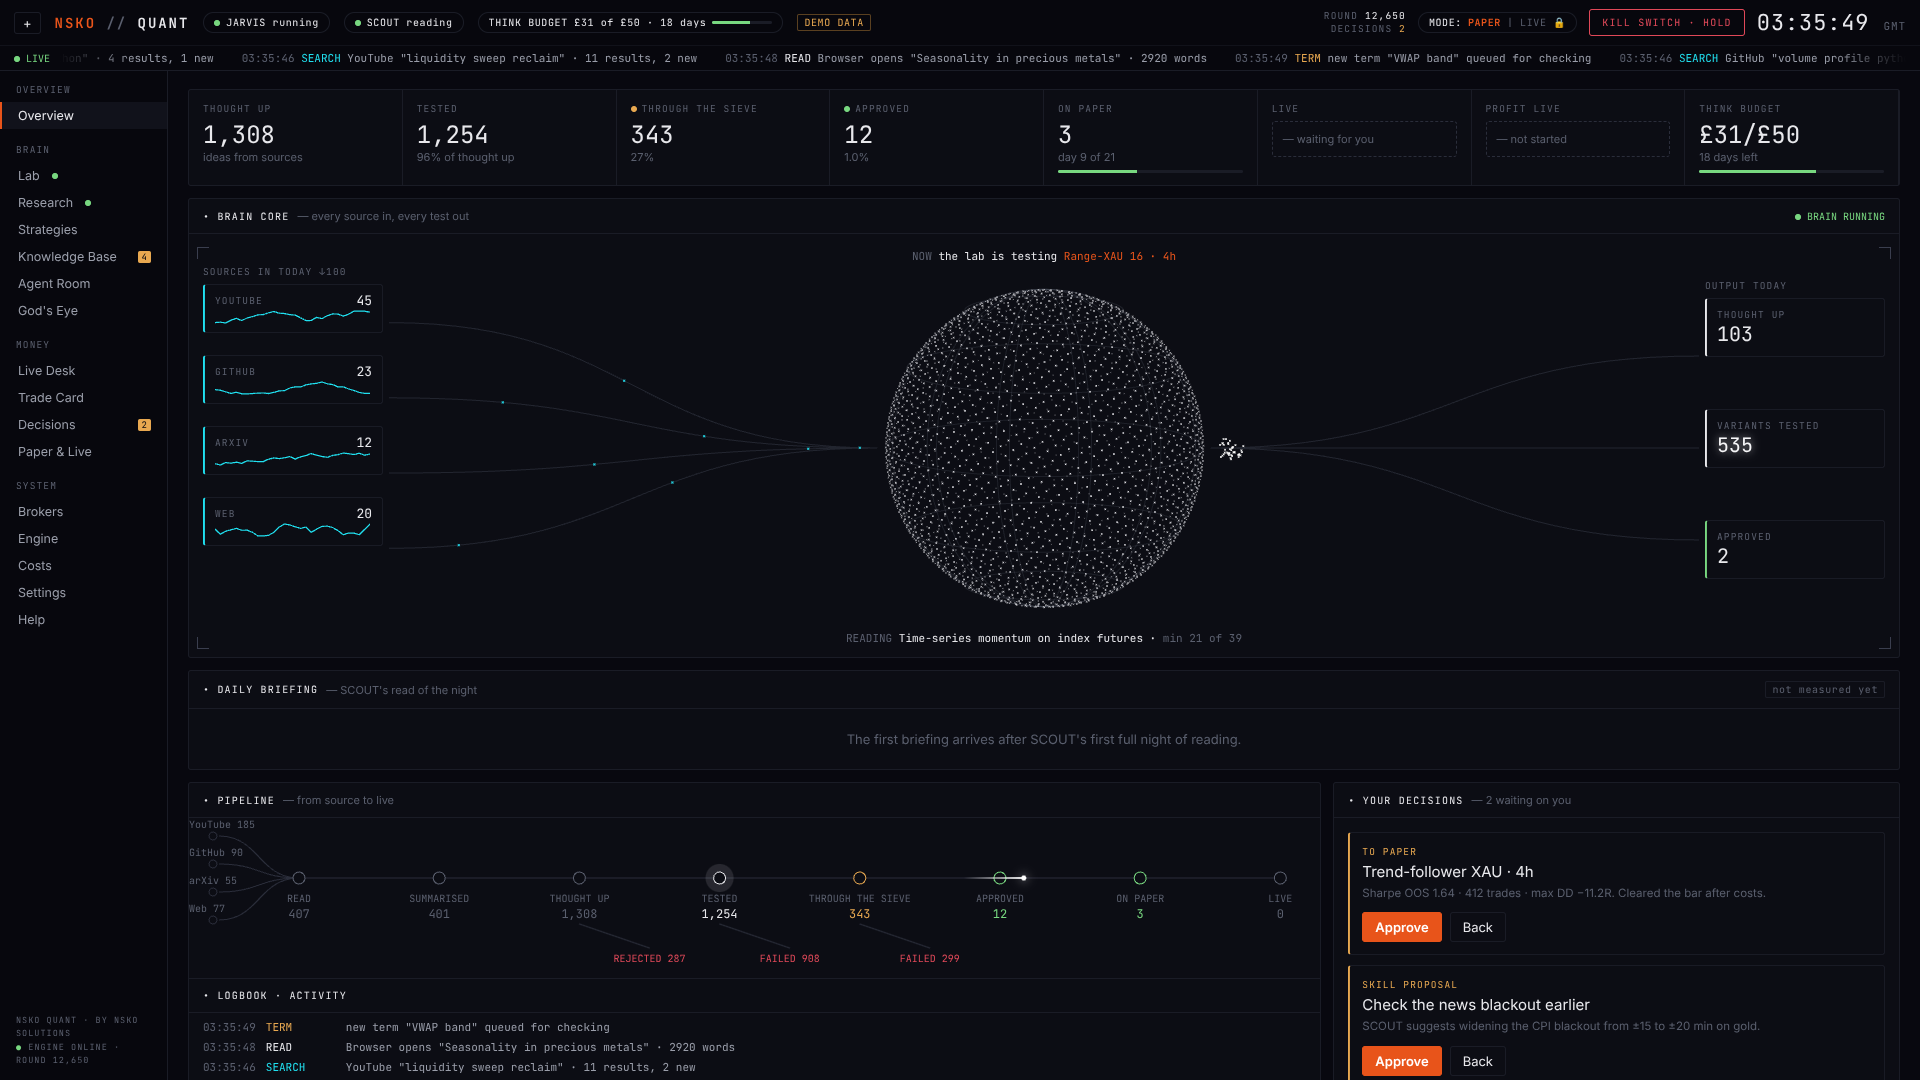
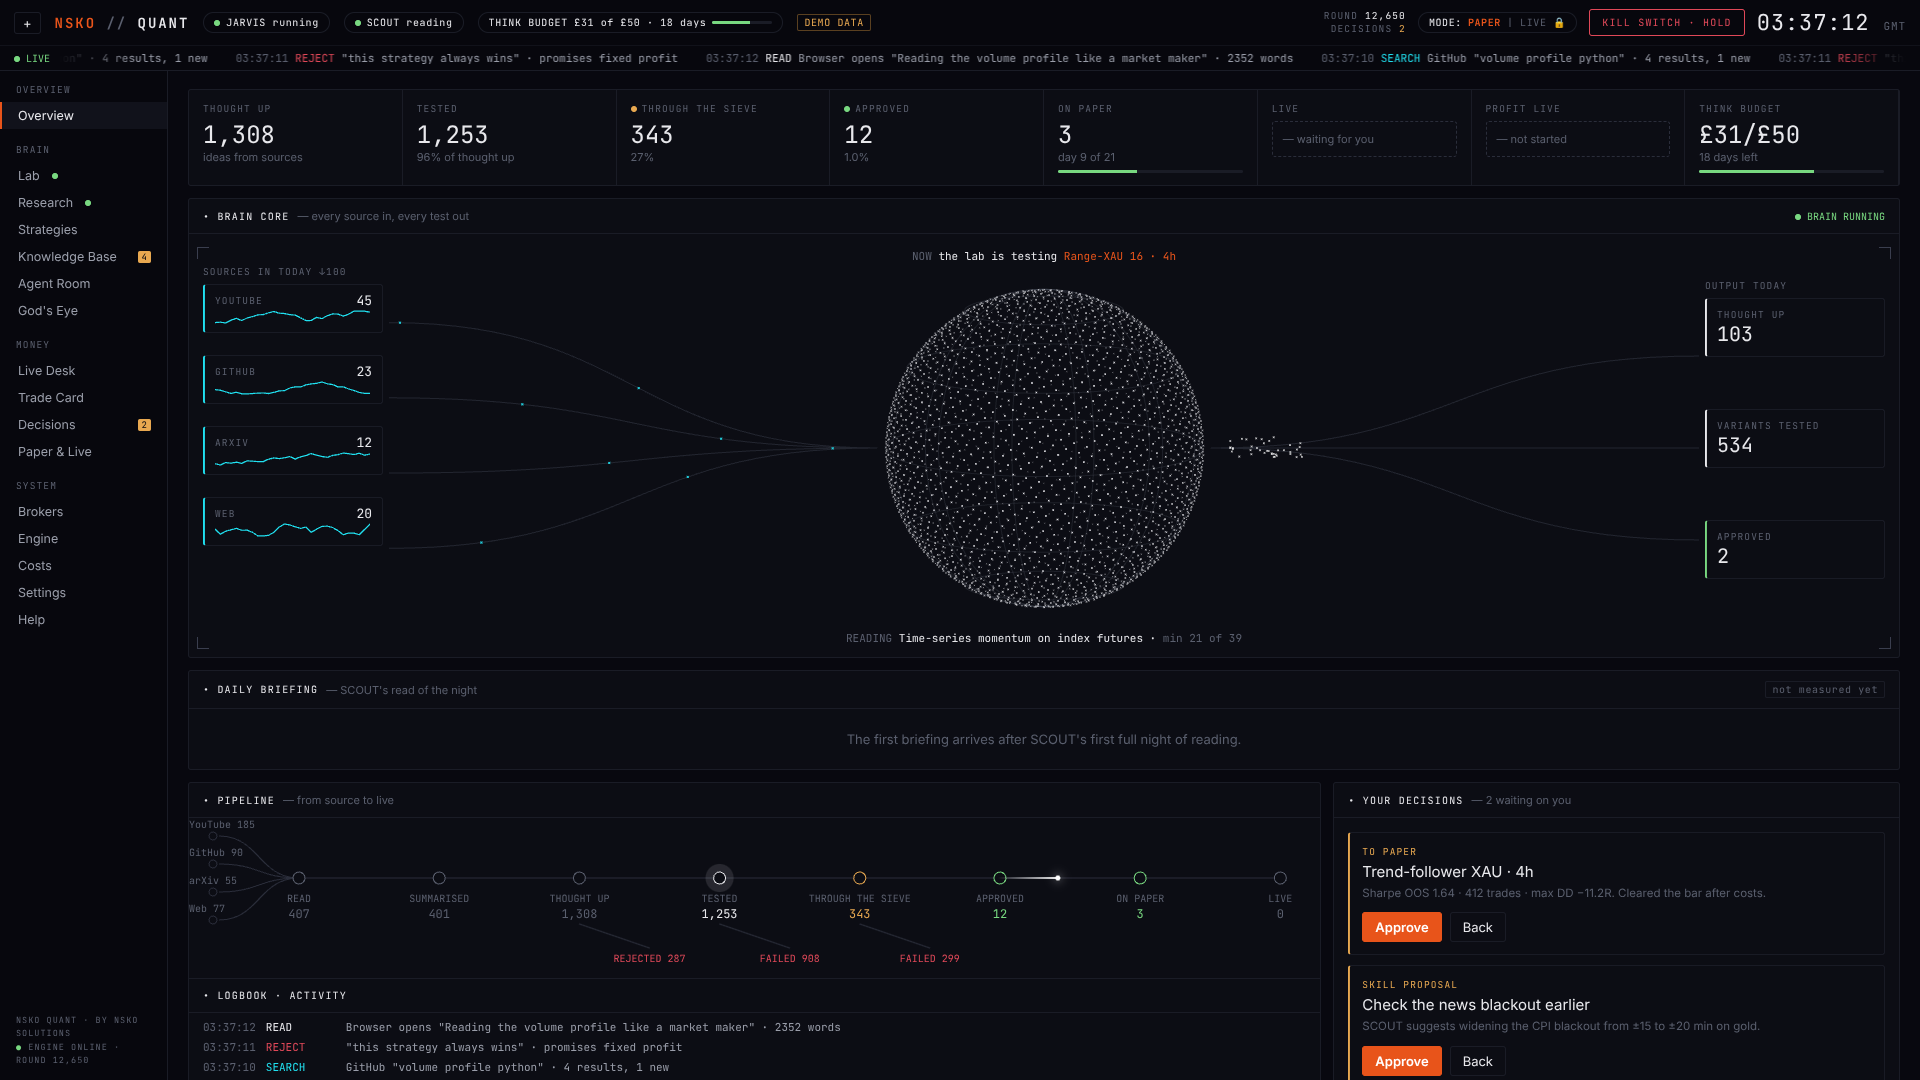
NSKO QUANT Stage 1: screenshots, report, Lab fan scale, Live Desk overlay fixes
Claude-Session: https://claude.ai/code/session_01FvjuHZAX8xSNXsKPrf7HEC

diff --git a/nsko-quant/app/src/pages/LabResearch.tsx b/nsko-quant/app/src/pages/LabResearch.tsx
@@ -14,30 +14,36 @@ export function EquityFan() {
   const variants = useS(s => s.variants); const [mode, setMode] = useState<'outcome' | 'idea' | 'nocost'>('outcome'); const [hov, setHov] = useState<Variant | null>(null)
   const mouse = useRef<[number, number] | null>(null)
   const bank = useMemo(() => { const v: Variant[] = []; for (let i = 0; i < 520; i++) { const s = (i * 7919) % 99991; const is = .3 + ((s % 100) / 100) * 1.4; const oos = is - ((s % 37) / 37) * 1.6 + ((s % 11) - 5) / 20; v.push({ id: -i, recipe: `${['Range', 'Trend', 'Sweep', 'Spread', 'ORB'][i % 5]}-XAU ${i % 20 + 1}`, market: 'XAU', tf: '4h', sharpeIS: +is.toFixed(2), sharpeOOS: +oos.toFixed(2), trades: 200, win: 50, rr: 1.4, dd: -12, outcome: oos >= 1.4 ? 'clear' : oos > .7 && i % 2 ? 'sieve' : 'failed', why: oos < 1.4 ? 'Max drawdown too deep' : null, seed: s + 1 }) } return v }, [])
-  const all = [...bank, ...variants]; const paths = useRef(new Map<number, number[]>())
+  const all = [...bank, ...variants]; const paths = useRef(new Map<number, number[]>()); const cache = useRef<{ key: string; img: HTMLCanvasElement | null }>({ key: '', img: null })
   const draw = (c: CanvasRenderingContext2D, w: number, h: number, t: number) => {
-    c.clearRect(0, 0, w, h); const n = 220, mid = h * .55, sx = (i: number) => 30 + (i / (n - 1)) * (w - 60), sy = (y: number) => mid - y * 5
+    c.clearRect(0, 0, w, h); const n = 220, mid = h * .55, sx = (i: number) => 30 + (i / (n - 1)) * (w - 60), K = h * .4 / 14, sy = (y: number) => mid - y * K   // ±14 units fills the panel
     c.fillStyle = 'rgba(255,255,255,.015)'; c.fillRect(30, 0, (w - 60) / 2, h)
     c.font = '10px JetBrains Mono'; c.fillStyle = '#5A5F6E'; c.fillText('IN-SAMPLE (IS) 2009–2019', 40, 18); c.fillText('OUT-OF-SAMPLE (OOS) 2020–2026', w / 2 + 10, 18)
     c.strokeStyle = '#2A2D3A'; c.beginPath(); c.moveTo(w / 2, 26); c.lineTo(w / 2, h - 10); c.stroke()
     let best: Variant | null = null, bd = 14
-    all.slice(-560).forEach((v, k) => {
+    const list = all.slice(-560), d = Math.min(2, devicePixelRatio || 1), key = `${w}x${h}|${mode}|${variants.length}`
+    const line = (cc: CanvasRenderingContext2D, v: Variant, upto: number, running: boolean) => {
       let p = paths.current.get(v.id); if (!p) { p = path(v, n); paths.current.set(v.id, p) }
-      const running = k === all.slice(-560).length - 1
-      const col = running ? '#FFFFFF' : mode === 'idea' ? IDEA_COL[Math.abs(v.seed) % 7] : v.outcome === 'clear' ? '#78D880' : v.outcome === 'sieve' ? '#E8A850' : '#5A5F6E'
-      c.strokeStyle = col; c.globalAlpha = running ? 1 : v.outcome === 'failed' && mode !== 'idea' ? .12 : .45; c.lineWidth = running ? 1.6 : .7
-      if (mode === 'nocost') c.setLineDash([3, 3])
-      const upto = running ? Math.floor(((t * .5) % 1) * n) : n
-      c.beginPath(); for (let i = 0; i < upto; i++) { const x = sx(i), y = sy(p[i] + (mode === 'nocost' && i > n / 2 ? (i - n / 2) * .02 : 0)); i ? c.lineTo(x, y) : c.moveTo(x, y) } c.stroke(); c.setLineDash([])
-      if (running && upto > 0) { c.globalAlpha = 1; c.fillStyle = '#fff'; c.shadowColor = '#fff'; c.shadowBlur = 12; c.beginPath(); c.arc(sx(upto - 1), sy(p[upto - 1]), 3, 0, 7); c.fill(); c.shadowBlur = 0 }
-      if (mouse.current) { const i = Math.round((mouse.current[0] - 30) / (w - 60) * (n - 1)); if (i >= 0 && i < n) { const d = Math.abs(sy(p[i]) - mouse.current[1]); if (d < bd) { bd = d; best = v } } }
-    })
+      cc.strokeStyle = running ? '#FFFFFF' : mode === 'idea' ? IDEA_COL[Math.abs(v.seed) % 7] : v.outcome === 'clear' ? '#78D880' : v.outcome === 'sieve' ? '#E8A850' : '#5A5F6E'
+      cc.globalAlpha = running ? 1 : v.outcome === 'failed' && mode !== 'idea' ? .12 : .45; cc.lineWidth = running ? 1.6 : .7
+      if (mode === 'nocost') cc.setLineDash([3, 3])
+      cc.beginPath(); for (let i = 0; i < upto; i++) { const x = sx(i), y = sy(p[i] + (mode === 'nocost' && i > n / 2 ? (i - n / 2) * .02 : 0)); i ? cc.lineTo(x, y) : cc.moveTo(x, y) } cc.stroke(); cc.setLineDash([]); cc.globalAlpha = 1
+      return p
+    }
+    if (cache.current.key !== key) {        // the settled lines are drawn once into an offscreen canvas; only the running test redraws each frame
+      const oc = document.createElement('canvas'); oc.width = w * d; oc.height = h * d; const cc = oc.getContext('2d')!; cc.setTransform(d, 0, 0, d, 0, 0)
+      list.slice(0, -1).forEach(v => line(cc, v, n, false)); cache.current = { key, img: oc }
+    }
+    c.drawImage(cache.current.img!, 0, 0, w, h)
+    const run = list[list.length - 1], upto = Math.floor(((t * .5) % 1) * n); const rp = line(c, run, upto, true)
+    if (upto > 0) { c.fillStyle = '#fff'; c.shadowColor = '#fff'; c.shadowBlur = 12; c.beginPath(); c.arc(sx(upto - 1), sy(rp[upto - 1]), 3, 0, 7); c.fill(); c.shadowBlur = 0 }
+    if (mouse.current) { const i = Math.round((mouse.current[0] - 30) / (w - 60) * (n - 1)); if (i >= 0 && i < n) list.forEach(v => { const p = paths.current.get(v.id); if (!p) return; const dd = Math.abs(sy(p[i]) - mouse.current![1]); if (dd < bd) { bd = dd; best = v } }) }
     c.globalAlpha = 1
     if (best) { const p = paths.current.get((best as Variant).id)!; c.strokeStyle = '#E8541A'; c.lineWidth = 2; c.beginPath(); p.forEach((y, i) => i ? c.lineTo(sx(i), sy(y)) : c.moveTo(sx(i), sy(y))); c.stroke() }
     if (best !== hov) setHov(best)
     // THE BAR
-    c.strokeStyle = '#78D880'; c.setLineDash([6, 4]); c.beginPath(); c.moveTo(w / 2, mid); c.lineTo(w - 30, mid - 1.4 * .035 * 110 * 5); c.stroke(); c.setLineDash([])
-    c.fillStyle = '#78D880'; c.fillText('THE BAR · SHARPE 1.40', w - 190, mid - 1.4 * .035 * 110 * 5 - 8)
+    c.strokeStyle = '#78D880'; c.setLineDash([6, 4]); c.beginPath(); c.moveTo(w / 2, mid); c.lineTo(w - 30, mid - 1.4 * .035 * 110 * K); c.stroke(); c.setLineDash([])
+    c.fillStyle = '#78D880'; c.fillText('THE BAR · SHARPE 1.40', w - 190, mid - 1.4 * .035 * 110 * K - 8)
     // scan beam
     const bx = 30 + ((t * .12) % 1) * (w - 60); const g = c.createLinearGradient(bx - 40, 0, bx, 0); g.addColorStop(0, 'rgba(255,255,255,0)'); g.addColorStop(1, 'rgba(255,255,255,.12)'); c.fillStyle = g; c.fillRect(bx - 40, 26, 40, h - 36)
   }

diff --git a/nsko-quant/app/src/pages/Money.tsx b/nsko-quant/app/src/pages/Money.tsx
@@ -13,7 +13,8 @@ type C = { time: UTCTimestamp; open: number; high: number; low: number; close: n
 function history(mkt: string, n = 160, step = 60): C[] {
   const m = MARKETS[mkt]; let p = m.px * (1 - .004), a = mkt.length * 999; const now = Math.floor(Date.now() / 1000 / step) * step; const out: C[] = []
   for (let i = n; i > 0; i--) { a = (a * 1103515245 + 12345) & 0x7fffffff; const r = (a / 0x7fffffff - .5) * 2; const o = p, c = p * (1 + r * m.vol * 2.2 + .00003); out.push({ time: (now - i * step) as UTCTimestamp, open: o, high: Math.max(o, c) * (1 + m.vol * .7 * Math.abs(r)), low: Math.min(o, c) * (1 - m.vol * .7 * Math.abs(r)), close: c }); p = c }
-  return out
+  const k = m.px / out[out.length - 1].close            // history ends exactly where the live demo ticks start
+  return out.map(c => ({ ...c, open: c.open * k, high: c.high * k, low: c.low * k, close: c.close * k }))
 }
 
 export function LiveDesk() {
@@ -21,7 +22,7 @@ export function LiveDesk() {
   const data = useRef<C[]>([]); const price = useS(s => s.prices[mkt]); const bubbles = useS(s => s.bubbles); const killed = useS(s => s.killed)
   useEffect(() => {
     const ch = createChart(box.current!, { layout: { background: { color: '#08080F' }, textColor: '#5A5F6E', fontFamily: 'JetBrains Mono', fontSize: 10, attributionLogo: true }, grid: { vertLines: { color: '#10111A' }, horzLines: { color: '#10111A' } },
-      rightPriceScale: { borderColor: '#1A1C26', scaleMargins: { top: .12, bottom: .12 } }, timeScale: { borderColor: '#1A1C26', timeVisible: true, rightOffset: 22 }, crosshair: { vertLine: { color: '#3A3E4E' }, horzLine: { color: '#3A3E4E' } }, autoSize: true })
+      rightPriceScale: { borderColor: '#1A1C26', scaleMargins: { top: .12, bottom: .12 } }, timeScale: { borderColor: '#1A1C26', timeVisible: true, rightOffset: 40 }, crosshair: { vertLine: { color: '#3A3E4E' }, horzLine: { color: '#3A3E4E' } }, autoSize: true })
     const s = ch.addSeries(CandlestickSeries, { upColor: '#78D880', downColor: '#E04858', borderVisible: false, wickUpColor: '#78D880', wickDownColor: '#E04858' })
     data.current = history(mkt); s.setData(data.current); chart.current = ch; ser.current = s
     if (mkt === 'XAU/USD') { const last = data.current[data.current.length - 1].close
@@ -39,6 +40,8 @@ export function LiveDesk() {
       c.fillStyle = 'rgba(232,168,80,.10)'; const z1 = Y(last.close * .9984), z2 = Y(last.close * .9990); c.fillRect(0, Math.min(z1, z2), lx, Math.abs(z1 - z2))
       c.fillStyle = 'rgba(224,72,88,.12)'; const r1 = Y(last.close * 1.0021), r2 = Y(last.close * 1.0026); c.fillRect(0, Math.min(r1, r2), lx, Math.abs(r1 - r2))
       c.font = '9px JetBrains Mono'; c.fillStyle = '#E8A850'; c.fillText('KEY LEVEL · VALUE AREA LOW', 8, Math.min(z1, z2) - 4); c.fillStyle = '#E04858'; c.fillText('RESISTANCE', 8, Math.min(r1, r2) - 4)
+      d.slice(-110, -1).forEach((k, i) => { const hsh = (i * 2654435761 + k.time) % 97; if (hsh % 3) return; const x = ch.timeScale().timeToCoordinate(k.time); if (x == null) return   // aggressive volume bubbles on past candles (demo)
+        const buy = k.close >= k.open, r = 4 + (hsh % 17); c.fillStyle = buy ? 'rgba(120,216,128,.22)' : 'rgba(224,72,88,.22)'; c.strokeStyle = buy ? 'rgba(120,216,128,.6)' : 'rgba(224,72,88,.6)'; c.beginPath(); c.arc(x, Y(buy ? k.low : k.high), r, 0, 7); c.fill(); c.stroke() })
       const t0 = d[0].time; bubbles.slice(-160).forEach(b => { const age = (Date.now() - b.t) / 1000, x = lx - age * 2.2; if (x < 0) return; const y = Y(b.price), r = Math.min(22, Math.sqrt(b.size) * 1.6)
         c.fillStyle = b.side === 'buy' ? 'rgba(120,216,128,.28)' : 'rgba(224,72,88,.28)'; c.strokeStyle = b.side === 'buy' ? 'rgba(120,216,128,.7)' : 'rgba(224,72,88,.7)'; c.beginPath(); c.arc(x, y, r, 0, 7); c.fill(); c.stroke() }); void t0
       // volume profile on the right edge (tick-volume profile on gold CFDs)
@@ -57,7 +60,7 @@ export function LiveDesk() {
     <div className="row" style={{ marginBottom: 10 }}>{Object.keys(MARKETS).map(m => <button key={m} onClick={() => setMkt(m)} style={{ borderColor: mkt === m ? 'var(--orange)' : undefined }} className="mono">{m}</button>)}
       <span className="num" style={{ marginLeft: 'auto', fontSize: 22 }}>{price ? fmt(price, MARKETS[mkt].dp) : '—'}</span>{killed && <span className="chip r" style={{ borderColor: '#5A2028' }}>TRADING LOCKED</span>}</div>
     <div className="grid" style={{ gridTemplateColumns: '1fr 300px' }}>
-      <div className="panel" style={{ height: 560, position: 'relative' }}><div ref={box} style={{ position: 'absolute', inset: 0 }} /><div style={{ position: 'absolute', inset: 0, pointerEvents: 'none' }}><Canvas draw={draw} /></div></div>
+      <div className="panel" style={{ height: 560, position: 'relative' }}><div ref={box} style={{ position: 'absolute', inset: 0 }} /><div style={{ position: 'absolute', inset: 0, pointerEvents: 'none', zIndex: 5 }}><Canvas draw={draw} /></div></div>
       <div className="grid" style={{ alignContent: 'start' }}>
         <div className="panel"><Head t="ACCOUNT · PAPER" /><div className="pb">{[['EQUITY', '£10,000.00'], ["TODAY'S P&L", `${pnl >= 0 ? '+' : ''}£${pnl.toFixed(2)}`], ['RISK USED TODAY', '1.0% of 3%']].map(([l, v]) => <div key={l} style={{ marginBottom: 10 }}><div className="lbl">{l}</div><div className={`big ${l.includes('P&L') ? (pnl >= 0 ? 'g' : 'r') : ''}`} style={{ fontSize: 20 }}>{v}</div></div>)}<div className="bar"><i style={{ width: '33%', background: 'var(--amber)' }} /></div></div></div>
         <div className="panel"><Head t="OPEN POSITIONS" /><table><tbody><tr><td>XAU/USD</td><td className="g">BUY 0.10</td><td className={pnl >= 0 ? 'g' : 'r'}>{pnl >= 0 ? '+' : ''}£{pnl.toFixed(2)}</td></tr></tbody></table></div>

diff --git a/nsko-quant/docs/STAGE-1-REPORT.md b/nsko-quant/docs/STAGE-1-REPORT.md
@@ -1,0 +1,119 @@
+# NSKO QUANT · Stage 1 report (brand + interface on demo data)
+
+26 Nov 2026 · branch `nsko-quant` · code in `nsko-quant/app` · screenshots in `docs/screenshots/stage-1/`
+
+## What was built
+- **Brand:** `NSKO // QUANT` wordmark (NSKO in orange), lockups (dark and light) and a 1024 px app icon in `assets/brand/`, built from Ernest's own NSKO "N" mark. Design tokens live in `src/tokens.ts`, and all colours come from there.
+- **Demo data simulator** (`src/demo/sim.ts`): seeded, emits the section 10 event names, drives every live number, ticker, chart and animation. A `DEMO DATA` chip shows in the top bar on every screen.
+- **Shell:**
+  - Two-row top bar: wordmark, JARVIS/SCOUT pulses, think budget, round counter, decisions count, PAPER mode with LIVE locked, hold-to-confirm kill switch (1.5 s), GMT clock.
+  - Endless activity ticker, with verbs in their own colours.
+  - Grouped sidebar with the orange active bar, live dots and amber badges.
+  - JARVIS chat slide-out (Ctrl/⌘+J) with scripted demo answers.
+  - Page change: 150 ms fade out, then 250 ms fade in with an 8 px rise.
+- **Screens:**
+  - **Overview:**
+    - 8 KPI tiles.
+    - BRAIN CORE: a 3,000-point rotating sphere on a lat/long wireframe. Source cards feed in along curved lines with travelling light. Every tested variant sprays a particle burst into "Variants tested".
+    - Pipeline graph with a comet pulse.
+    - Logbook.
+    - Decisions cards (Approve slides the card out).
+    - Mini equity curves and a latest-variants table.
+  - **Lab:**
+    - Tested/sieve bars.
+    - WHY DO THEY FAIL? bars: the one that just changed glows gold.
+    - Equity fan of 560 lines converging at the IS/OOS split, with the dashed bar at Sharpe 1.40, a self-drawing running test with a glowing head, and a scan beam. Hovering a line highlights it with a tooltip. Three colour modes.
+    - Stat tiles and a variants table.
+  - **Research:**
+    - Nebula star field: 7 idea-type clusters with orbiting green source dots. New sources fly in.
+    - NOW READING transcript, with trading terms lit as green chips.
+    - SCOUT thought stream.
+  - **Strategy Book:**
+    - Filter tabs and search.
+    - List with sparklines and 5-block quality bars.
+    - Detail page: key figures, equity curve drawing in over 800 ms with the red drawdown mirrored underneath, monthly robustness grid, results by session.
+  - **Knowledge Base:**
+    - YOUR CHECK carousel: candle illustration, plain-English rule, code, Correct / Not correct.
+    - Library groups.
+    - Concept detail: bullish/bearish rules, a lifecycle ring animating 5/6 → 6/6, a candle-by-candle replay player, and three sources side by side.
+  - **Agent Room (3D):**
+    - Isometric office with 11 agents. JARVIS stands in orange on a ring platform with a halo.
+    - Desk lights show working, a coffee cup idle, a red lamp stuck, a paper stack queued.
+    - Packets fly desk to desk on every handoff event.
+    - Camera modes Overview / Top down / Floor / Follow the work. Clicking an agent dollies the camera in and opens the NOW / BEFORE / HEARD / NEXT STEP panel.
+    - Show-as-table toggle.
+  - **God's Eye (shell):**
+    - 3D globe with demo layers (flights, military, ships, satellites with orbit rings, quakes, fires, weather, launches, crops) and layer toggles.
+    - Normal / Night-vision / Thermal sensor switch.
+    - MARKET IMPACT cards: each says it "never opens a trade by itself".
+    - 24 h timeline.
+    - ALT-DATA LAB tab with Crop Watch, Oil Storage (glowing tank rings) and Car Counts (locked premium, generic "RETAILER", no logos).
+  - **Live Desk:**
+    - Lightweight Charts candles with entry, stop and target lines.
+    - Order-flow overlay: green/red aggressive-volume bubbles, amber key-level zone, red resistance zone, tick-volume profile on the right edge (POC in orange).
+    - Kronos fan of possible paths from the latest candle.
+    - Market switcher (XAU, BTC, ETH, NVDA, AAPL).
+    - Account panel with P&L ticking, open positions and orders.
+    - Trade history with CSV button, and the risk warning in the footer.
+  - **Trade Card:**
+    - Nine-step tracker that runs itself.
+    - Scanner counter to 5,900.
+    - News and God's Eye checks.
+    - Forecast fan.
+    - Entry: Waiting → Triggered, with take-profit and stop zones.
+    - Time Machine counting to 10,000, with paths between target and stop and the 29.4 / 25.5 / 45.1 % odds bar.
+    - Size card and risk-gate ticks.
+    - Order ticket: in Auto the lock opens and it stamps SENT ✓; in Manual it waits for Approve.
+    - Exit with scale-out.
+    - Analyst → bull/bear → risk → trader debate.
+  - **Decisions:** full approval inbox.
+  - **Paper & Live:** side-by-side results and the go-live checklist, including the typed phrase "I understand I can lose money".
+  - **Brokers:** eight broker cards, Capital.com in demo with "Trading ✓ · Withdrawals OFF ✓", and the CMC "not supported" note.
+  - **Engine:** status, uptime, keep-awake, CPU, RAM, heartbeat, redacted logs.
+  - **Costs.**
+  - **Settings:** risk limits with defaults, Auto/Manual, strategy updates, alerts, export/restore desk.
+  - **Help:** FAQ and the risk warning.
+  - **Onboarding wizard (7 steps):**
+    1. Logo sting
+    2. Account and licence
+    3. 24/7 setup check
+    4. Broker
+    5. Risk limits
+    6. Markets and mode
+    7. Start on PAPER
+
+## Acceptance checks
+- [x] Every page in 6.2–6.13 exists, in English with NSKO branding (18 screenshots).
+- [x] The demo simulator drives the live numbers; DEMO DATA is visible.
+- [~] **60 fps:** measured in headless Chromium with **software** WebGL (no GPU). Results by page:
+  - Overview: 47 fps.
+  - Lab, Research, Strategies, Knowledge, Live Desk, Trade Card and every other 2D page: 60–61 fps.
+  - Agent Room (3D): 32 fps.
+  - God's Eye (3D): 13 fps.
+
+  The 3D pages need a real GPU to measure honestly. Re-check on a mid-range laptop in Stage 2 (the Tauri build).
+- [x] `prefers-reduced-motion`: CSS animations and transitions switch off, and canvas loops draw a single frame.
+- [x] Screenshots saved in `docs/screenshots/stage-1/`.
+- [x] This report.
+
+## What is faked (on purpose, Stage 1)
+- Everything on screen is demo data. Clearly labelled demo items include prices, variants, sources, agents, trades and alerts.
+- JARVIS gives scripted answers.
+- The God's Eye globe is procedural, not satellite imagery. CesiumJS and the live free feeds replace it in Stage 3.
+- The onboarding stores nothing yet: no real account, licence check or keychain.
+- The kill switch only locks the demo.
+
+## What's left / notes
+- **Reference material:**
+  - The videos supplied cover God's Eye (two) and alt-data (one). Those two screens follow them: HUD readouts, yellow flights, cyan shipping lanes, satellite rings, thermal/night modes, tank rings, frost overlay, cars counted.
+  - The main interface, trade-card, order-flow and forecast screens follow the text reference board, because there were no videos or PDF pages for those.
+  - Add the master prompt and the reference board `.md` files to `docs/` as the source of truth.
+- **Stage 2 (next):**
+  - Tauri 2 shell and installers.
+  - Python engine as a background service with tray icon, keep-awake and watchdog.
+  - Accounts, licences, keychain.
+  - Paper-trading simulator.
+  - Database tables and audit log.
+  - Swap the demo source for the engine WebSocket.
+  - Updater and phone alerts.
+- The production JS bundle is about 1.6 MB, mostly three.js. Code-splitting the 3D pages is a Stage 2 task.
